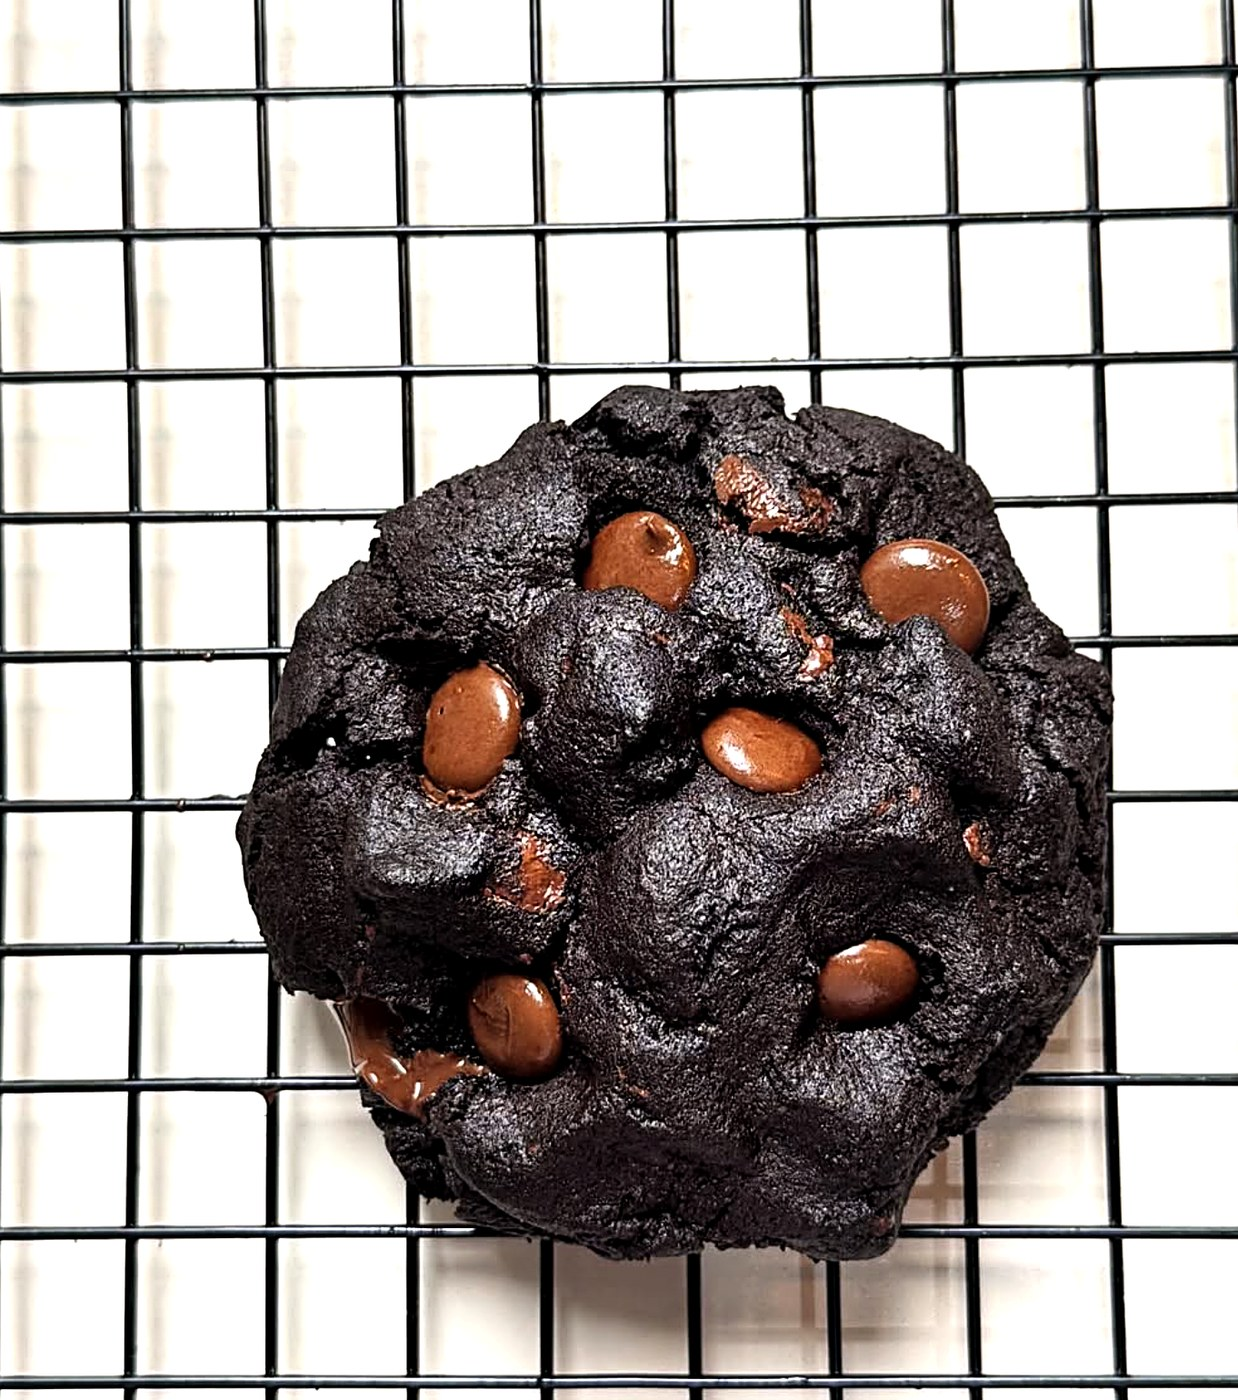
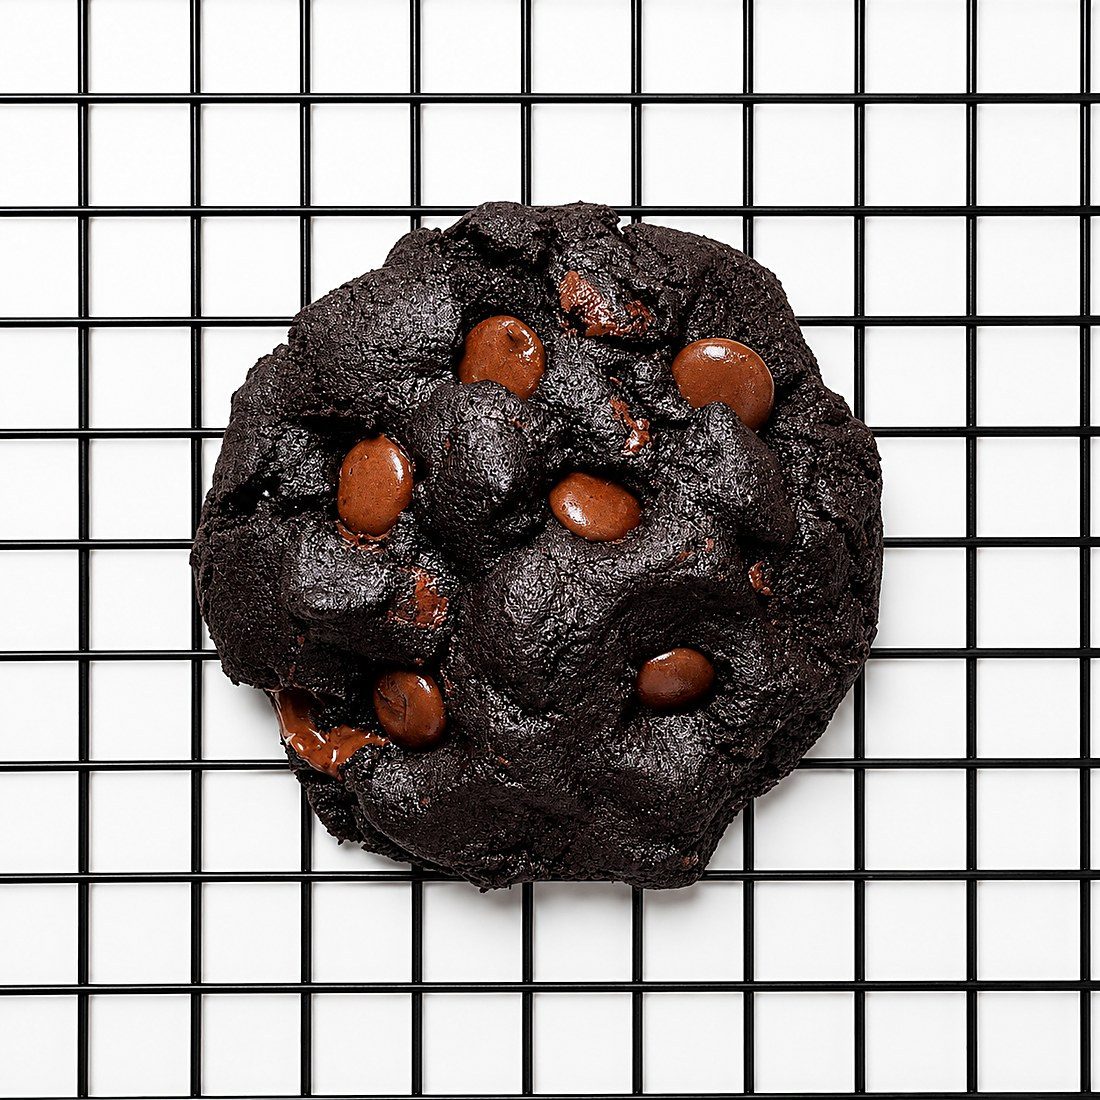
Add files via upload

diff --git a/index.html b/index.html
@@ -323,7 +323,7 @@ footer small{opacity:.6;display:block;margin-top:16px;font-size:13px}
       </div>
     </div>
     <div class="sobre-photo">
-      <img src="img/fundadora.jpg?v=3" alt="Fundadora do Cookie Crooki com o forno">
+      <img src="img/fundadora.jpg" alt="Fundadora do Cookie Crooki com o forno">
       <span class="cap">Feito à mão, fornada por fornada 🍪</span>
     </div>
   </div>
@@ -351,11 +351,11 @@ footer small{opacity:.6;display:block;margin-top:16px;font-size:13px}
       <p class="lead" style="margin:0 auto">Fotos de verdade, feitas por nós. Sem filtro, só cookie de qualidade.</p>
     </div>
     <div class="gallery-grid">
-      <a class="wide" href="img/forno.jpg?v=3" target="_blank" rel="noopener"><img loading="lazy" src="img/forno.jpg?v=3" alt="Cookies assando no forno"></a>
-      <a href="img/corte/redvelvet.jpg?v=3" target="_blank" rel="noopener"><img loading="lazy" src="img/corte/redvelvet.jpg?v=3" alt="Red Velvet partido, com recheio de cream cheese"></a>
-      <a href="img/oreo.jpg?v=3" target="_blank" rel="noopener"><img loading="lazy" src="img/oreo.jpg?v=3" alt="Cookie de Oreo"></a>
-      <a href="img/variedade.jpg?v=3" target="_blank" rel="noopener"><img loading="lazy" src="img/variedade.jpg?v=3" alt="Variedade de sabores"></a>
-      <a href="img/caixa.jpg?v=3" target="_blank" rel="noopener"><img loading="lazy" src="img/caixa.jpg?v=3" alt="Caixa com quatro cookies"></a>
+      <a class="wide" href="img/forno.jpg" target="_blank" rel="noopener"><img loading="lazy" src="img/forno.jpg" alt="Cookies assando no forno"></a>
+      <a href="img/corte/redvelvet.jpg" target="_blank" rel="noopener"><img loading="lazy" src="img/corte/redvelvet.jpg" alt="Red Velvet partido, com recheio de cream cheese"></a>
+      <a href="img/oreo.jpg" target="_blank" rel="noopener"><img loading="lazy" src="img/oreo.jpg" alt="Cookie de Oreo"></a>
+      <a href="img/variedade.jpg" target="_blank" rel="noopener"><img loading="lazy" src="img/variedade.jpg" alt="Variedade de sabores"></a>
+      <a href="img/caixa.jpg" target="_blank" rel="noopener"><img loading="lazy" src="img/caixa.jpg" alt="Caixa com quatro cookies"></a>
     </div>
   </div>
 </section>
@@ -539,7 +539,6 @@ footer small{opacity:.6;display:block;margin-top:16px;font-size:13px}
     {n:"Red Velvet", d:"Massa red velvet com um toque de cacau, pedaços de chocolate branco e recheado com brigadeiro de cream cheese.", p:"15,00", chip:"Queridinho",
       img:"img/redvelvet.jpg",   cut:"img/corte/redvelvet.jpg"}
   ];
-  var V = "?v=3"; // versão dos arquivos — evita o navegador usar imagens antigas do cache
   var grid = document.getElementById('menuGrid');
   flavors.forEach(function(f){
     var msg = "Olá! Quero pedir o cookie *"+f.n+"* (110g~120g · R$ "+f.p+"). 🍪";
@@ -548,8 +547,8 @@ footer small{opacity:.6;display:block;margin-top:16px;font-size:13px}
     card.href = waLink(msg); card.target = "_blank"; card.rel="noopener";
     card.innerHTML =
       '<div class="photo-wrap">'+
-        '<img class="photo" loading="lazy" src="'+f.img+V+'" alt="Cookie '+f.n+'">'+
-        (f.cut? '<img class="cut" loading="lazy" src="'+f.cut+V+'" alt="Cookie '+f.n+' partido ao meio">':'')+
+        '<img class="photo" loading="lazy" src="'+f.img+'" alt="Cookie '+f.n+'">'+
+        (f.cut? '<img class="cut" loading="lazy" src="'+f.cut+'" alt="Cookie '+f.n+' partido ao meio">':'')+
         (f.chip? '<span class="tagline-chip">'+f.chip+'</span>':'')+
         (f.cut? '<button class="peek" type="button" aria-label="Ver o recheio">Ver recheio</button>':'')+
       '</div>'+